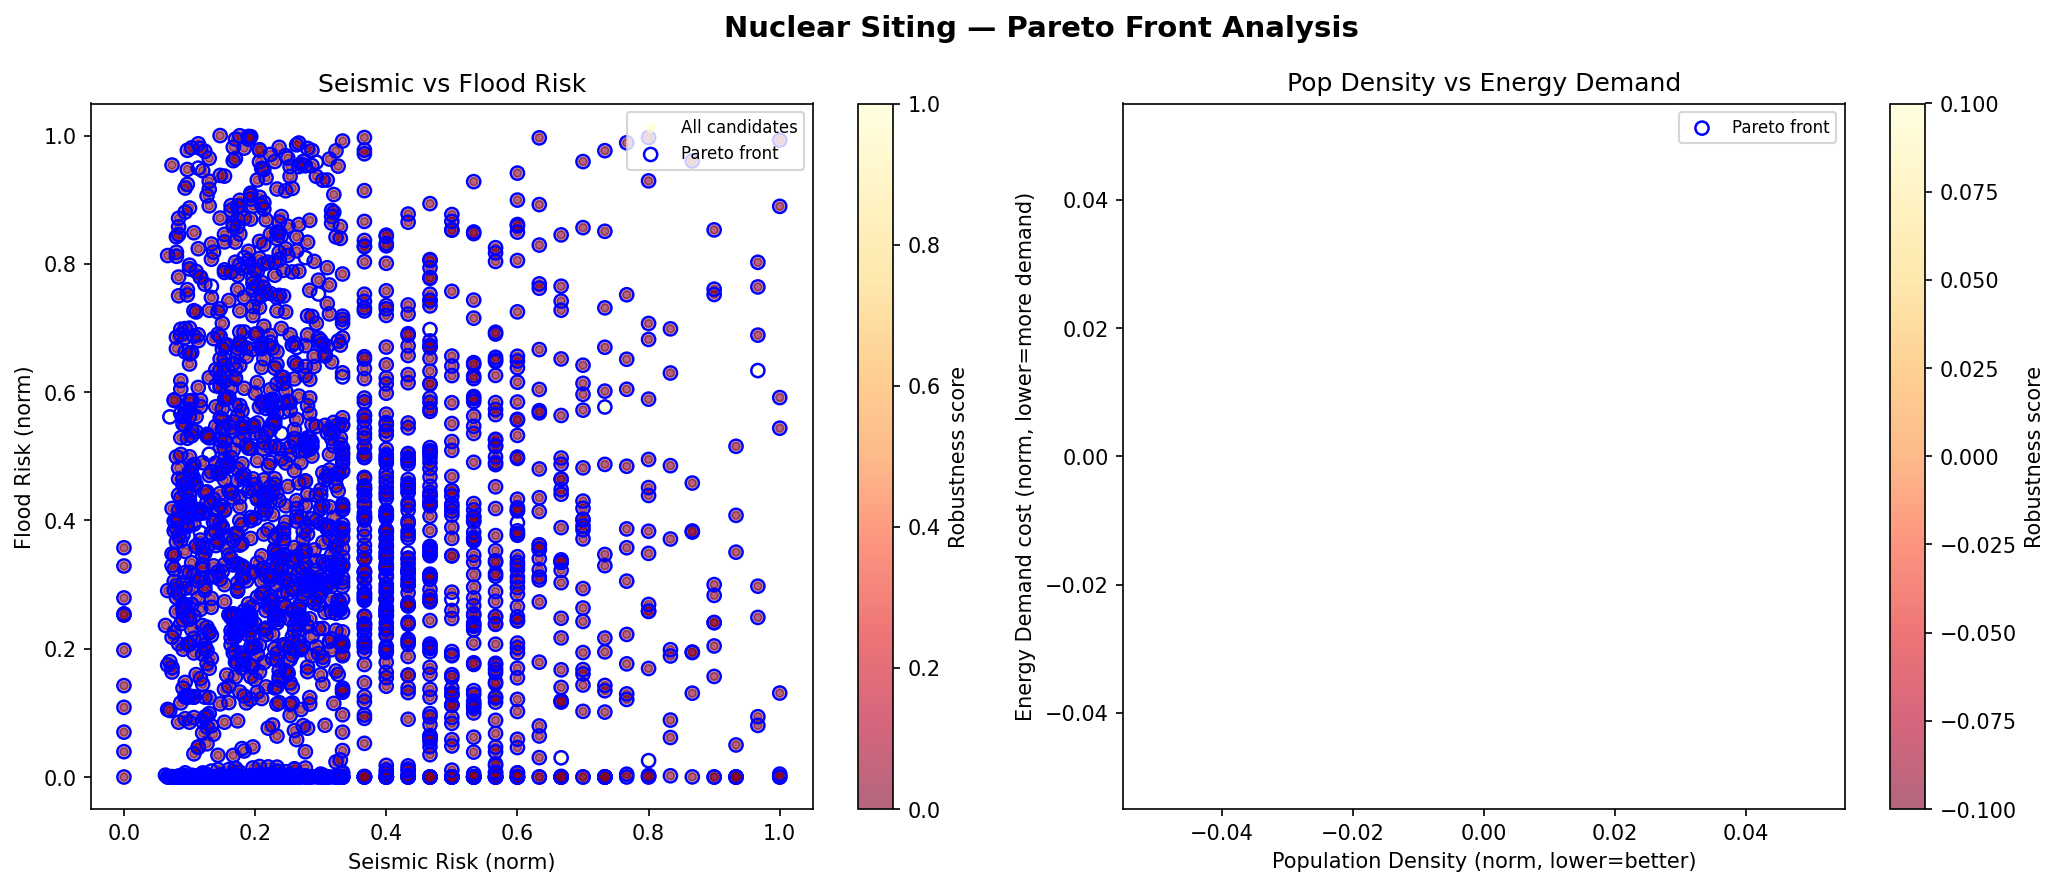
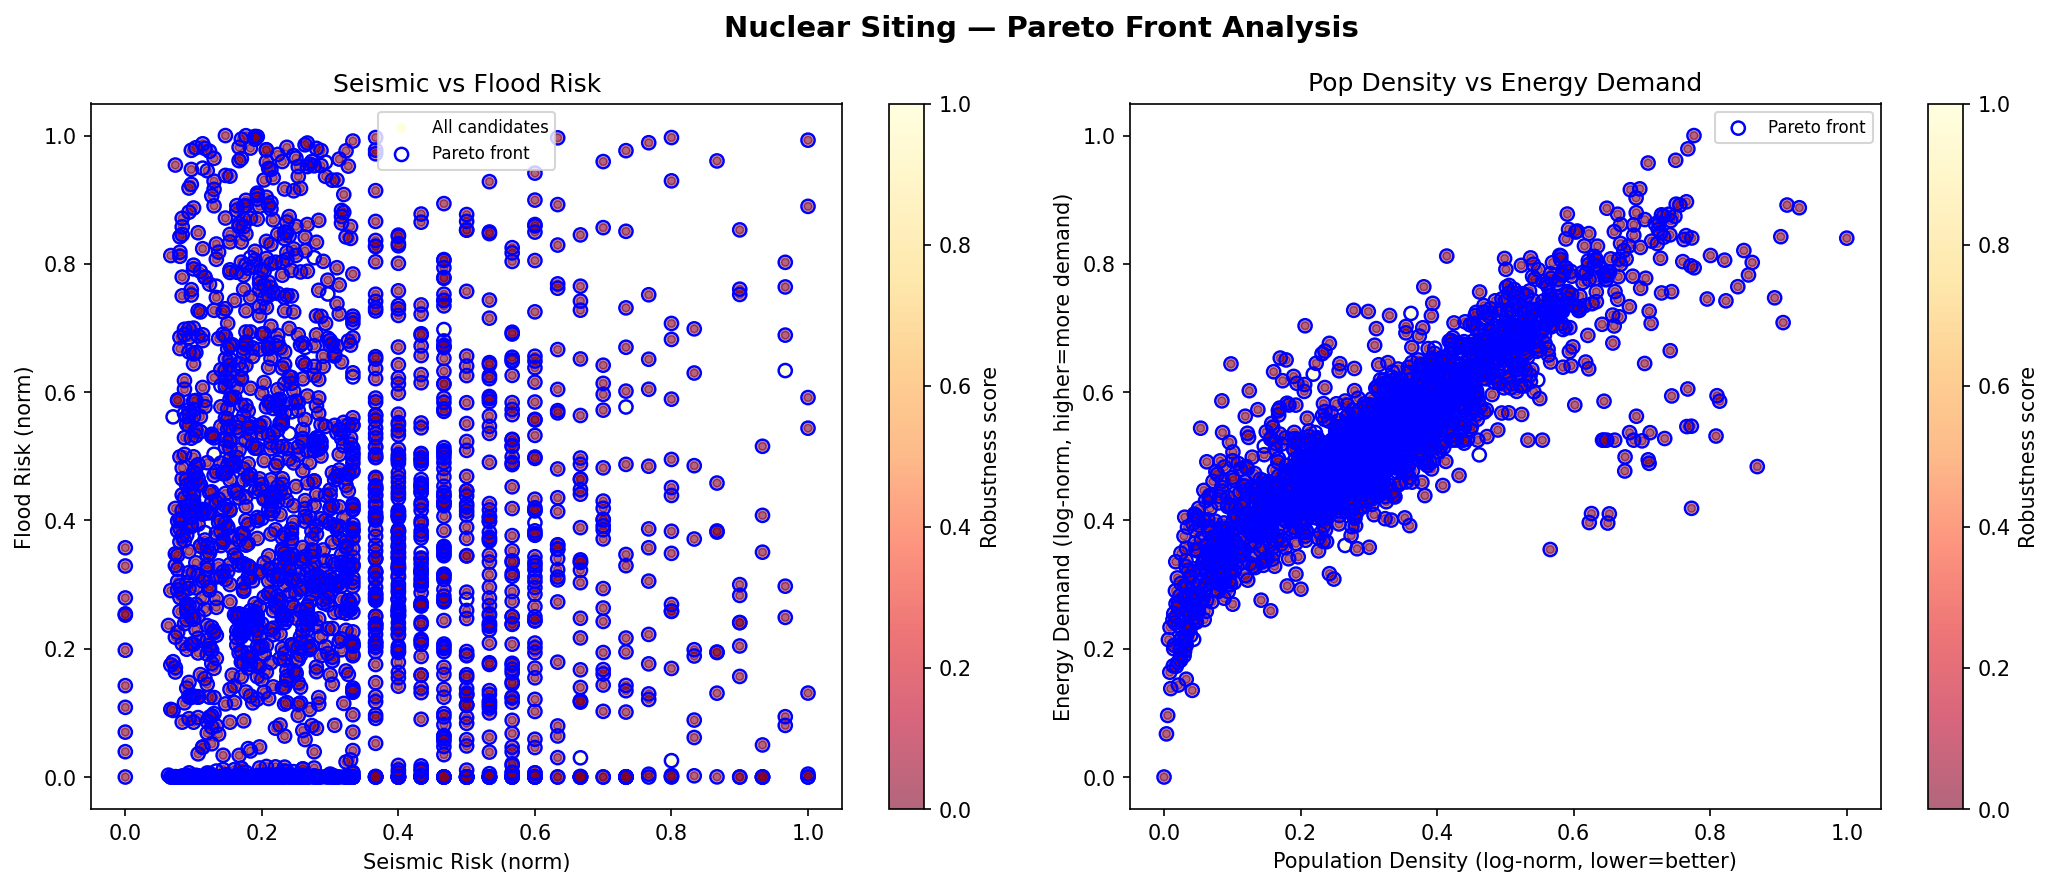
Step 4 MOO complete: Pareto front, robustness scores, visualization

diff --git a/step4_moo.py b/step4_moo.py
@@ -18,11 +18,10 @@ from pymoo.operators.sampling.rnd import FloatRandomSampling
 from pymoo.operators.crossover.sbx import SBX
 from pymoo.operators.mutation.pm import PM
 from pymoo.optimize import minimize
-from pymoo.termination import get_termination
+from pymoo.termination.max_gen import MaximumGenerationTermination
 
 # ─────────────────────────────────────────────
 # CONFIG: map objectives to your column names
-# Adjust these if your columns are named differently
 # ─────────────────────────────────────────────
 COLUMN_MAP = {
     "seismic_risk":     "pga_max",
@@ -34,10 +33,11 @@ COLUMN_MAP = {
 }
 
 # Columns that are "higher is better" — we negate them so pymoo minimizes
+# grid_connectivity is distance (lower=better), so NOT in this set
 MAXIMIZE_COLS = {"water_access", "energy_demand"}
 
 # Optional: column with MCDA suitability score from Step 2
-SUITABILITY_COL = None  # set to None if not present
+SUITABILITY_COL = None
 
 # Input / output paths
 CANDIDATES_PATH = "processed_data/candidates.csv"
@@ -149,7 +149,7 @@ algorithm = NSGA2(
     mutation=PM(eta=20),
     eliminate_duplicates=True,
 )
-termination = get_termination("n_gen", N_GEN)
+termination = MaximumGenerationTermination(N_GEN)
 
 res = minimize(
     problem,
@@ -263,23 +263,27 @@ ax.set_ylabel("Flood Risk (norm)")
 ax.set_title("Seismic vs Flood Risk")
 ax.legend(fontsize=8)
 
-# Plot 2: Pop density vs Energy demand
+# Plot 2: Pop density vs Energy demand (log scale to handle outliers)
 ax = axes[1]
+pop_log = np.log1p(df["population_density"].fillna(df["population_density"].median()).values)
+energy_log = np.log1p(df["total_energy_consumption_mwh"].fillna(df["total_energy_consumption_mwh"].median()).values)
+pop_plot = (pop_log - pop_log.min()) / (pop_log.max() - pop_log.min())
+energy_plot = (energy_log - energy_log.min()) / (energy_log.max() - energy_log.min())
+
 sc2 = ax.scatter(
-    X_norm[:, obj_names.index("pop_density")],
-    X_norm[:, obj_names.index("energy_demand")],
+    pop_plot,
+    energy_plot,
     c=robustness_pct,
     cmap="YlOrRd_r",
     s=15,
     alpha=0.6,
 )
-pareto_x2 = X_norm[pareto_mask, obj_names.index("pop_density")]
-pareto_y2 = X_norm[pareto_mask, obj_names.index("energy_demand")]
-ax.scatter(pareto_x2, pareto_y2, s=40, facecolors="none", edgecolors="blue",
+ax.scatter(pop_plot[pareto_mask], energy_plot[pareto_mask],
+           s=40, facecolors="none", edgecolors="blue",
            linewidths=1.2, label="Pareto front", zorder=5)
 plt.colorbar(sc2, ax=ax, label="Robustness score")
-ax.set_xlabel("Population Density (norm, lower=better)")
-ax.set_ylabel("Energy Demand cost (norm, lower=more demand)")
+ax.set_xlabel("Population Density (log-norm, lower=better)")
+ax.set_ylabel("Energy Demand (log-norm, higher=more demand)")
 ax.set_title("Pop Density vs Energy Demand")
 ax.legend(fontsize=8)
 
